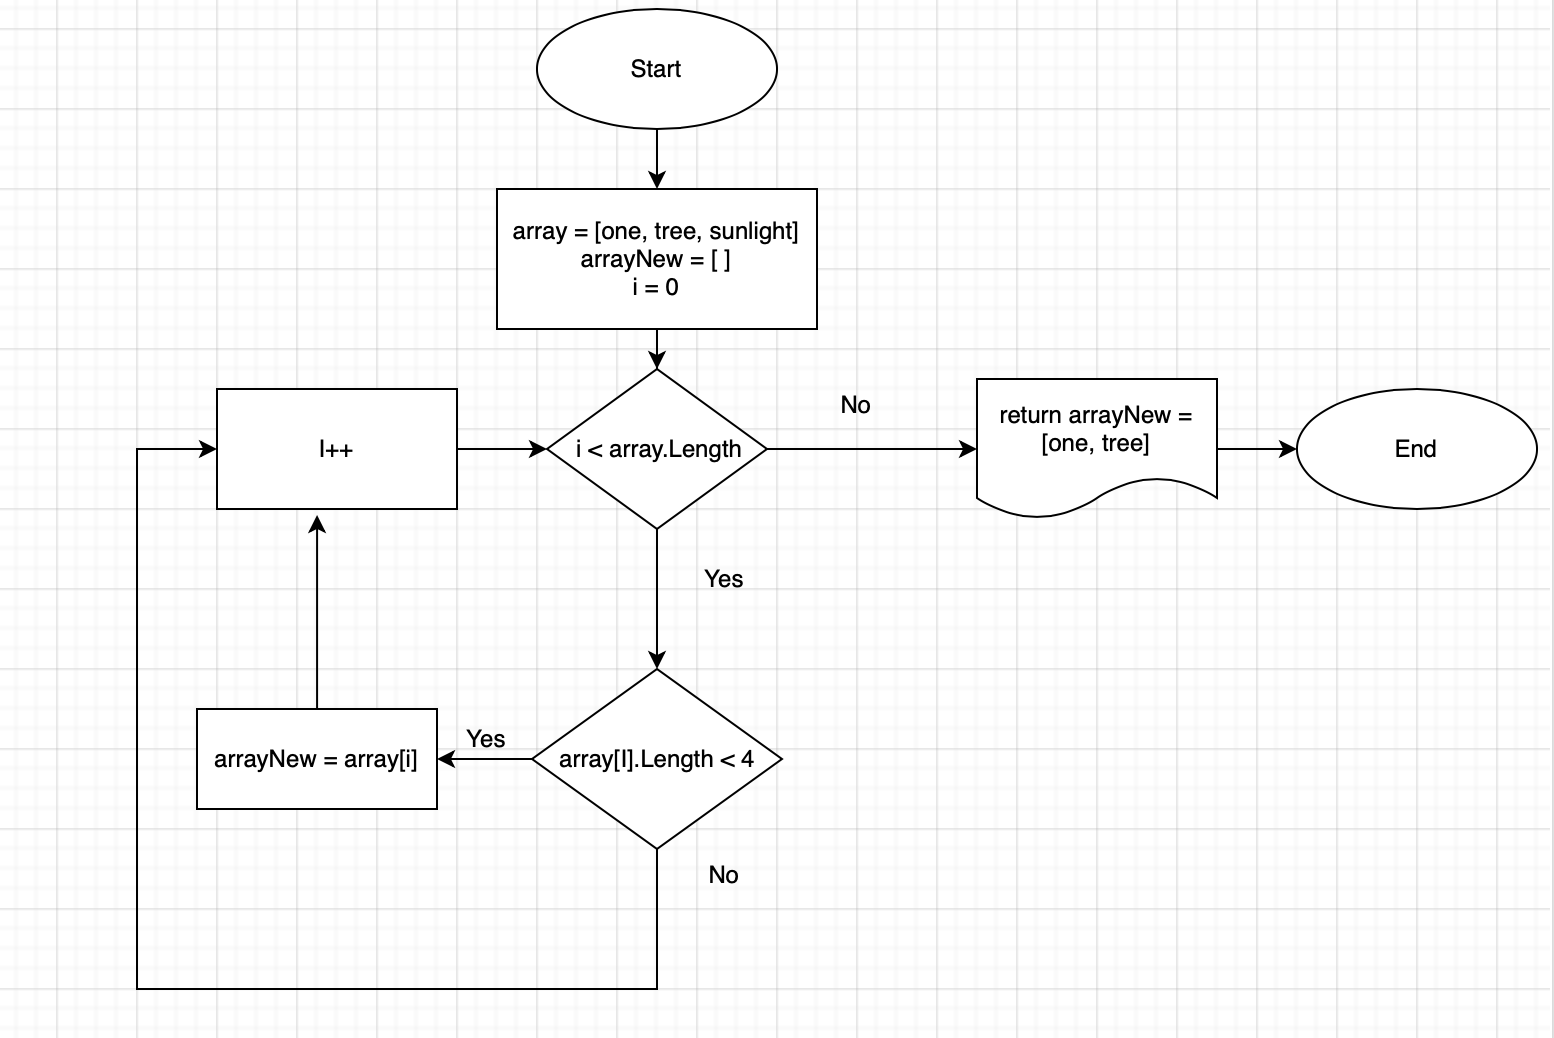
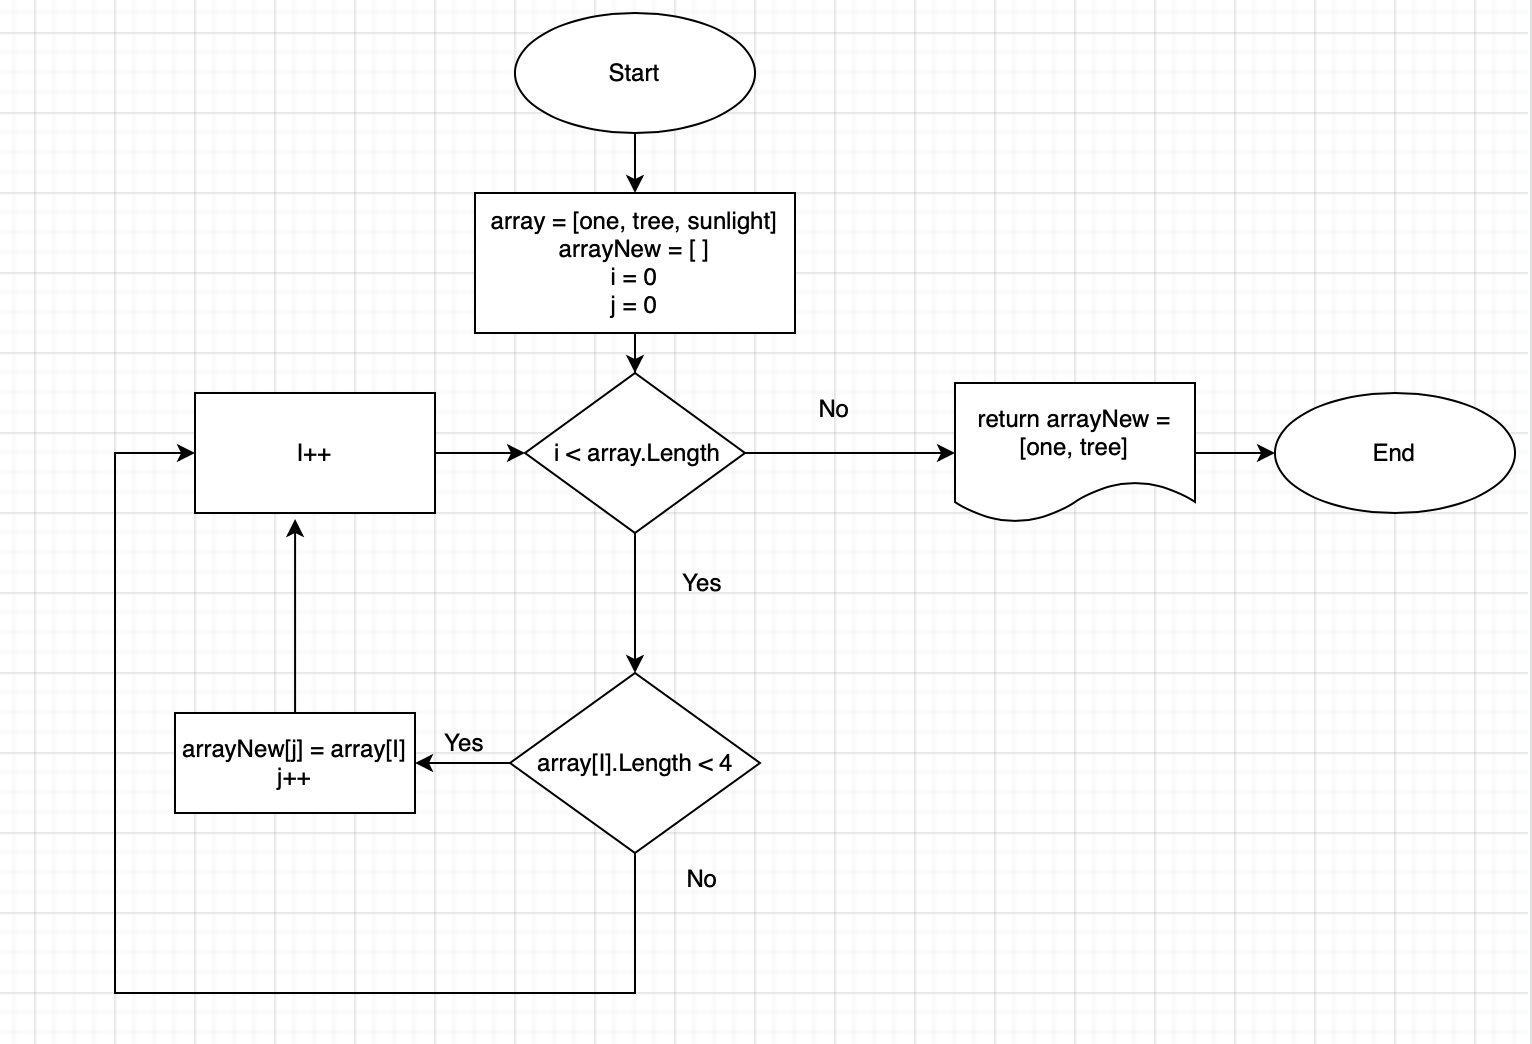
algorithm and code upgraded, final commit

diff --git a/Test_work/Program.cs b/Test_work/Program.cs
@@ -1,5 +1,4 @@
-
-string[] StringArray = new string[] { "Monday", "Tuesday", "Planet", "Sun", "To", "Sunday", "456" };
+string[] StringArray = new string[] { "Monday", "Tuesday", "Planet", "Sun", "To", "Sunday", "456" };
 
 void ShowArray(string[] array)
 {
@@ -7,7 +6,6 @@ void ShowArray(string[] array)
     for (int i = 0; i < array.Length; i++)
     {
         Console.Write(array[i] + " ");
-        //Console.WriteLine();
     }
 
 }
@@ -17,12 +15,16 @@ ShowArray(StringArray);
 string[] ThreeCellElements(string[] array)
 {
     string[] ArrayNew = new string[array.Length];
-
+    int j = 0;
     for (int i = 0; i < array.Length; i++)
     {
         if (array[i].Length < 4)
-        ArrayNew[i] = array[i];
+        {
+            ArrayNew[j] = array[i];
+            j++;
+        }
         else continue;
+
     }
     Console.WriteLine();
     return ArrayNew;
